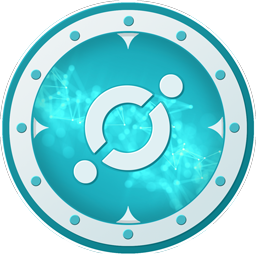
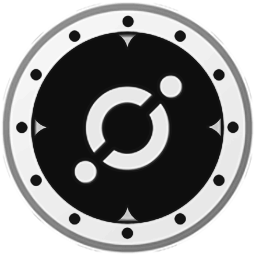
Update Design

diff --git a/README.md b/README.md
@@ -5,36 +5,16 @@
     alt="ICONation logo">
 </p>
 
-<h1 align="center">Obsidian - GUI wallet for ICON</h1>
+<h1 align="center">Obsidian - ICONation MultiSig Wallet</h1>
 
 <p align="center">
   <img 
-    src="https://i.imgur.com/LsGzFE6.png"
+    src="https://i.imgur.com/8KLXsRR.png"
     width="500px"
     alt="Obsidian Screens">
 </p>
 
  [![License](https://img.shields.io/badge/License-Apache%202.0-blue.svg)](https://opensource.org/licenses/Apache-2.0)
-
-## Features:
-
-This wallet contains the basic functions required to manage your ICX assets:
-
-* Wallet creation:
-  * Create new wallet.
-  * Import/recover from private keys.
-* Basic wallet operation/transactions:
-  * Open an existing wallet
-  * Display wallet address & balance
-  * Display & Backup private keys
-  * Sending/transfering. Also provides address lookup from your addressbook.
-* Address book:
-  * Add/Edit/Delete address entry.
-  * Listing/sorting/searching existing entries.
-  * Allow to optionally create password protected address book.
-* Misc:
-  * Theme: Dark & Light Mode
-  * Keyboard shortcuts
 
 ## Download &amp; Run Obsidian
 
@@ -45,24 +25,6 @@ This wallet contains the basic functions required to manage your ICX assets:
 #### macOS
 1. Download latest archive here: https://github.com/ICONation/obsidian/releases/latest
 2. Extract `Obsidian-<version>-mac.zip` and run `Obsidian.app` inside.
-
-## Available keyboard shortcut
-
-| Shortcut                                       | Target                               | Conditions |
-| ---------                                      | -------                              | ---------- |
-| <kbd>Ctrl</kbd>+<kbd>Home</kbd>                | Go to **overview/welcome** screen    | - |
-| <kbd>Ctrl</kbd>+<kbd>Tab</kbd>                 | Go to **next tab/screen**            | - |
-| <kbd>Ctrl</kbd>+<kbd>n</kbd>                   | Create new wallet                    | No wallet is being opened |
-| <kbd>Ctrl</kbd>+<kbd>o</kbd>                   | Open a wallet                        | No wallet is being opened |
-| <kbd>Ctrl</kbd>+<kbd>i</kbd>                   | Import wallet from private keys      | No wallet is being opened |
-| <kbd>Ctrl</kbd>+<kbd>e</kbd>                   | Export private keys                  | Wallet is currently opened |
-| <kbd>Ctrl</kbd>+<kbd>t</kbd>                   | Go to **Create Transaction** screen  | Wallet is currently opened |
-| <kbd>Ctrl</kbd>+<kbd>s</kbd>                   | Go to **Send Transaction** screen    | Wallet is currently opened |
-| <kbd>Ctrl</kbd>+<kbd>x</kbd>                   | Close currently opened wallet        | Wallet is currently opened |
-| <kbd>Ctrl</kbd>+<kbd>d</kbd>                   | Toggle dark/night mode               | - |
-| <kbd>Ctrl</kbd>+<kbd>/</kbd>                   | Display list of available shortcuts  | - |
-| <kbd>Esc</kbd>                                 | Close any opened dialog              | - |
-
 
 ## Building/Packaging Obsidian
 
